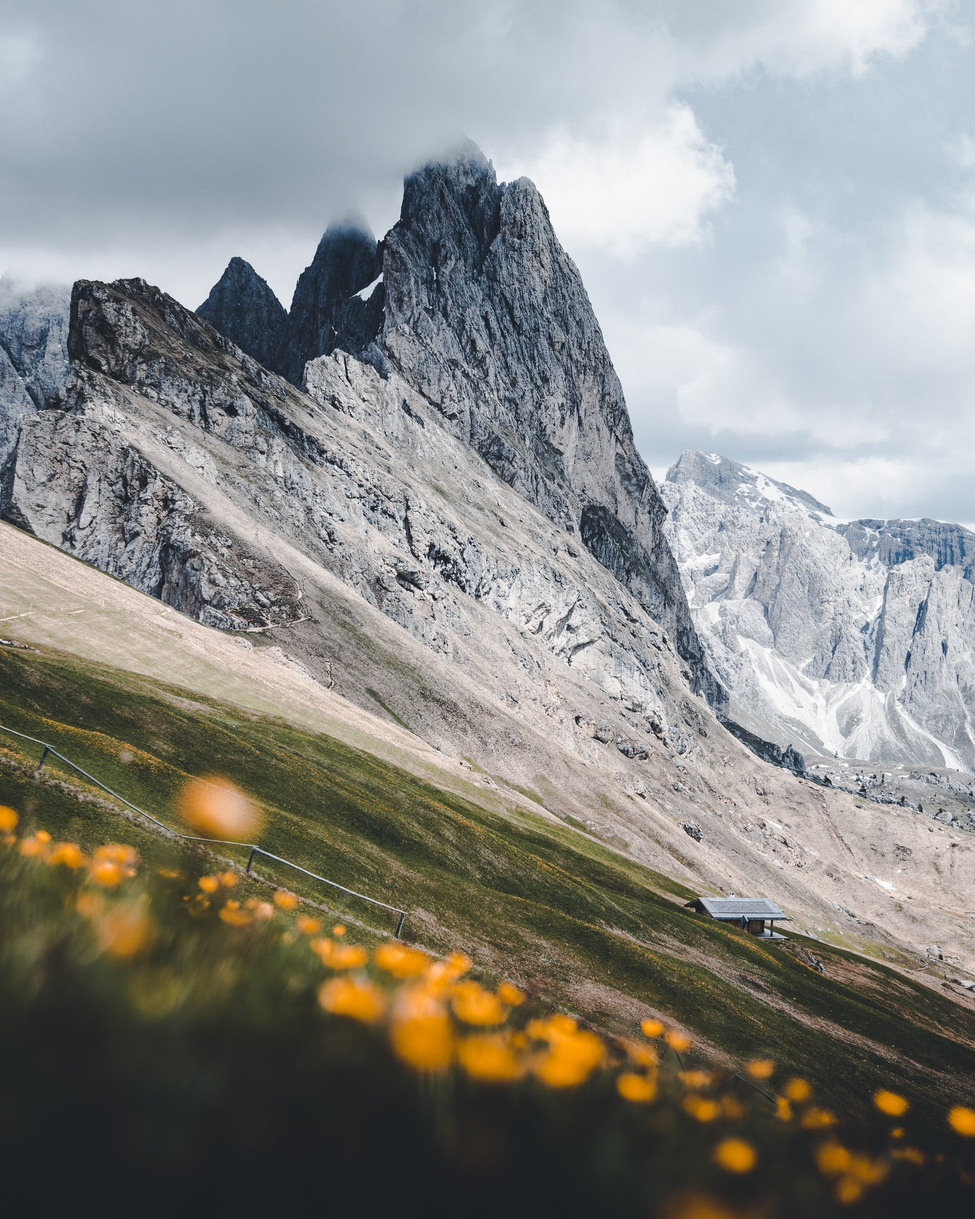
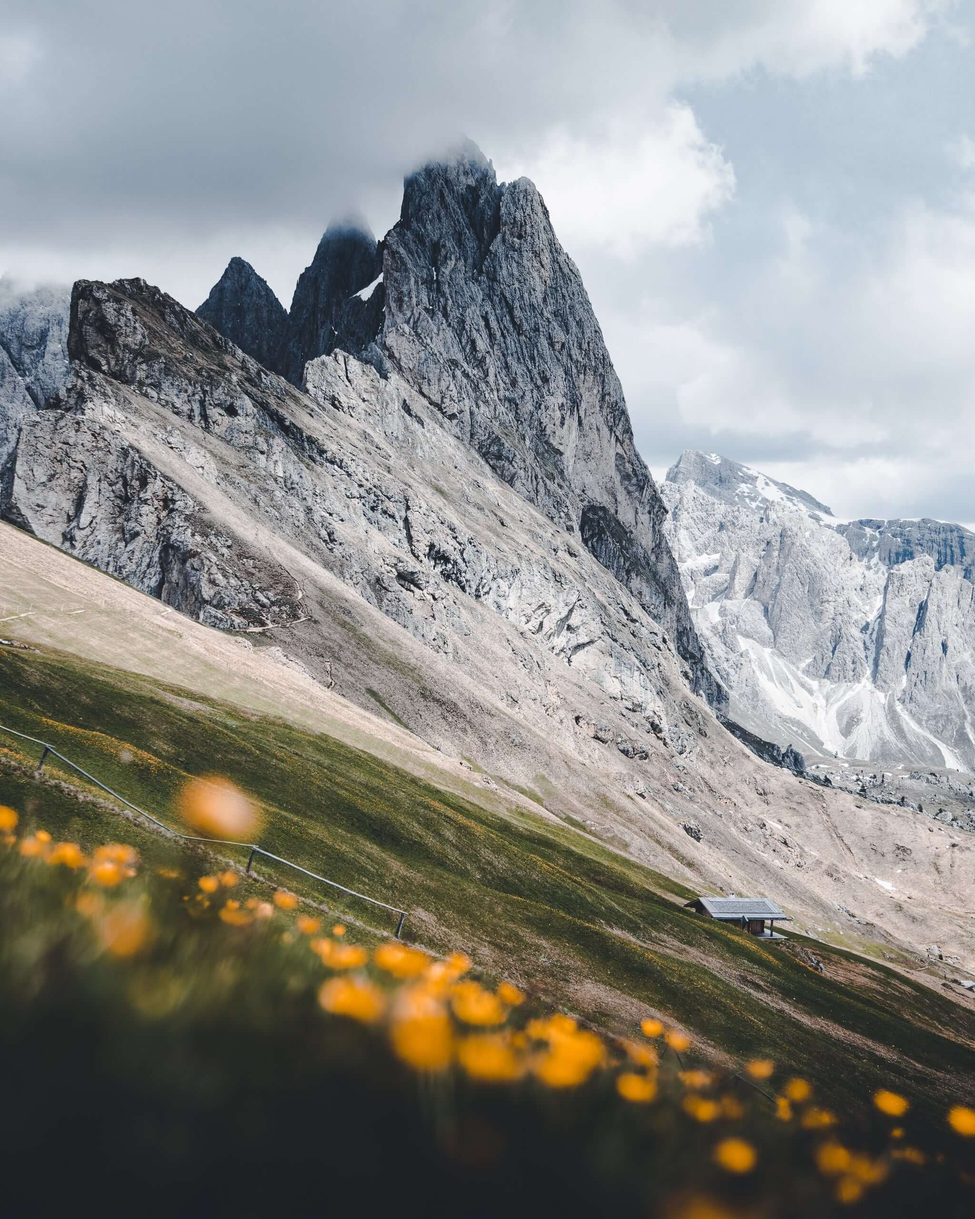
img compression

diff --git a/src/views/Home.vue b/src/views/Home.vue
@@ -12,8 +12,8 @@
             <div class="card-deck">
               <div class="col-md-12 col-lg-4">
                 <div class="card mb-4">
-                  <img class="card-img-top" src="http://promo.ecomarine.kz/assets/images/mbr-1547x1080.jpg"
-                    alt="Card image cap">
+                  <img class="card-img-top" src="@/assets/inventory.jpg"
+                    alt="Быстрая инвентаризация">
                   <div class="card-body">
                     <h4 class="card-title">Проведите инвентаризацию</h4>
                     <p class="card-text">Зарегистрируйтесь в системе "ЭкоМарин" и проведите инвентаризацию источников
@@ -26,7 +26,7 @@
 
               <div class="col-md-12 col-lg-4">
                 <div class="card mb-4">
-                  <img class="card-img-top" src="http://promo.ecomarine.kz/assets/images/02.jpg" alt="Card image cap">
+                  <img class="card-img-top" src="@/assets/responsible.jpg" alt="Система напоминаний">
                   <div class="card-body">
                     <h4 class="card-title">Назначьте ответственных лиц</h4>
                     <p class="card-text">Назначьте ответственных лиц за предоставление периодических данных и укажите
@@ -42,7 +42,7 @@
               <div class="col-md-12 col-lg-4">
                 <div class="card mb-4">
                   <img class="card-img-top"
-                    src="http://promo.ecomarine.kz/assets/images/william-iven-22449-4288x2848.jpg" alt="Card image cap">
+                    src="@/assets/reports.jpg" alt="Автоматические отчеты">
                   <div class="card-body">
                     <h4 class="card-title">Получайте автоматические отчеты</h4>
                     <p class="card-text">Как только ответственные лица заполнят периодические данные – “ЭкоМарин”
